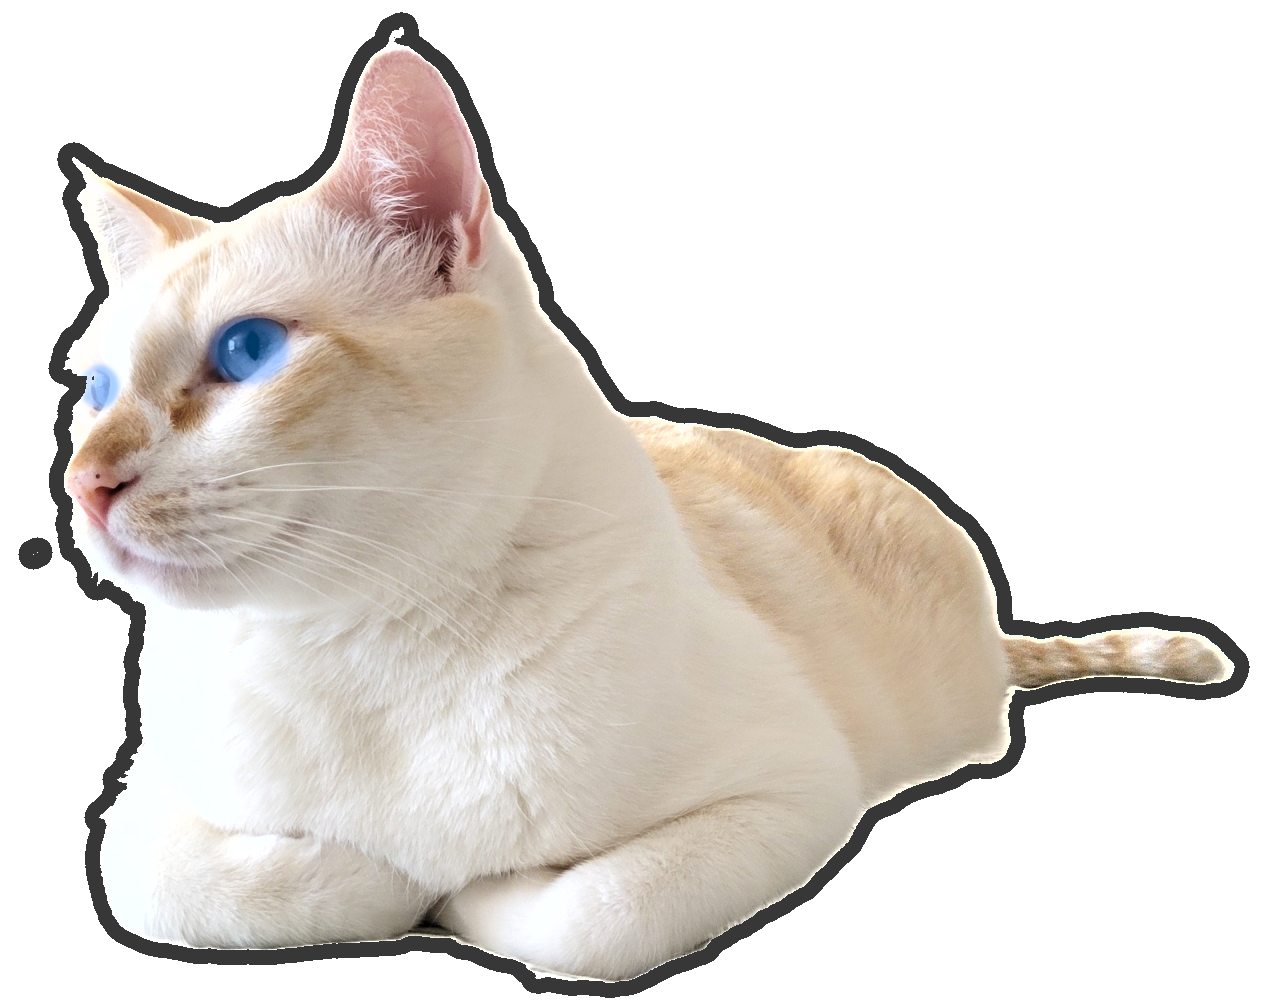
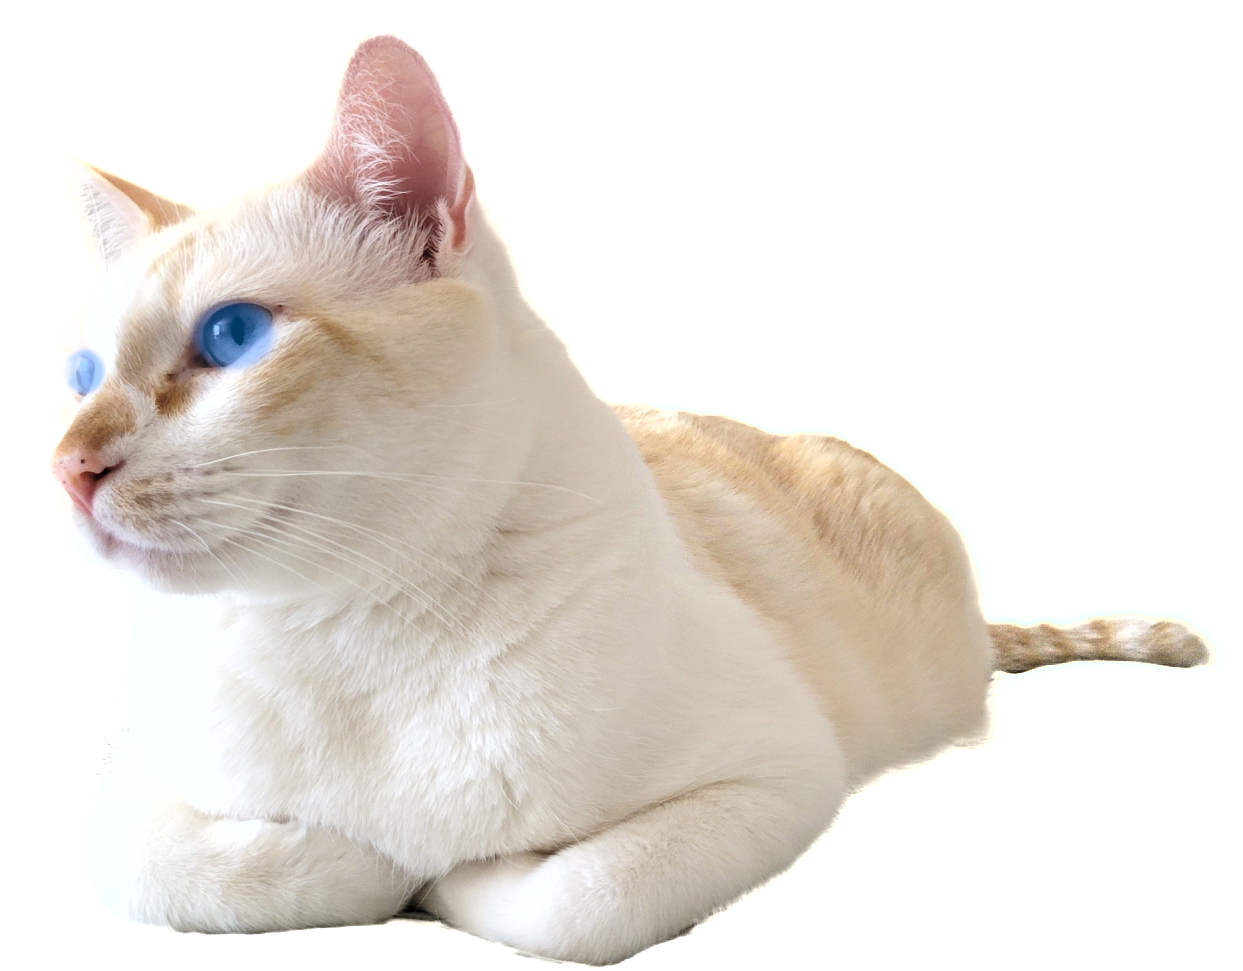
examples: drop the AI outline edit, add a no-AI baseline for comparison
blue_eyes_cat: remove the outline op from plan.json (visually noisy), regenerate the
enhanced photo and both AI chart variants, and add baseline_pattern_{unlimited,20}colors.png
generated straight from the original photo with no AI step, to demonstrate what the AI
step actually buys: at every color budget the un-enhanced photo puts 0 blue beads in the
eyes (their real pixel color is a low-saturation gray-blue), while the AI-enhanced version
gets 25 (20-color) to 31 (unlimited) blue beads. Face crops aligned via the chart's own
purple grid border rather than fixed pixel coordinates, since the two charts have
different row counts. Adds examples/blue_eyes_cat/README.md documenting the comparison.

diff --git a/examples/blue_eyes_cat/README.md b/examples/blue_eyes_cat/README.md
@@ -1,0 +1,30 @@
+# blue_eyes_cat
+
+Demonstrates what the AI-assisted step is actually for: this cat's blue eyes are only a few beads wide,
+and their real pixel color is a pale, low-saturation gray-blue — not vivid enough to win against the
+surrounding cream fur when matched to the nearest bead color.
+
+| File | AI-enhanced? | Colors | Blue-eye beads |
+|---|---|---|---|
+| `baseline_pattern_unlimited_colors.png` | no | 56 | 0 |
+| `baseline_pattern_20colors.png` | no | 20 | 0 |
+| `ai_pattern_unlimited_colors.png` | yes | 86 | 31, across 12 different blues (`C16`, `C29`, `P14`, ...) |
+| `ai_pattern_20colors.png` | yes | 20 | 25 (`C16`, a deep blue) |
+
+`baseline_*` is the photo run straight through `beadify` with no AI step. At **every** color budget, from
+20 colors up to unlimited, zero beads come out blue - the eyes disappear into the surrounding gray/beige
+fur codes (`H3`, `M7`, `M9`, ...). This isn't a color-count problem; the AI step's `colorize` edit is what
+lets the eyes survive at all.
+
+`eye_comparison.jpg` is a face crop of the two 20-color charts side by side (baseline left, AI-enhanced
+right) - see the top-level README for the full picture.
+
+Regenerate this example:
+
+```bash
+beadify-ai enhance ../../tests/fixtures/cat_flame_point.png --plan plan.json -w .
+beadify tests/fixtures/cat_flame_point.png -o baseline_pattern_unlimited_colors.png
+beadify tests/fixtures/cat_flame_point.png -o baseline_pattern_20colors.png --max-colors 20 --denoise
+beadify-ai chart -w . --yes -o ai_pattern_unlimited_colors.png
+beadify-ai chart -w . --yes -o ai_pattern_20colors.png --max-colors 20 --denoise
+```

diff --git a/examples/blue_eyes_cat/changes.md b/examples/blue_eyes_cat/changes.md
@@ -2,7 +2,7 @@
 
 **Subject:** A cream / white 'flame point' cat lying down and looking left, with blue eyes, pink ear and nose, tan markings on the back and a banded tail.
 
-**Summary:** Brightened the photo slightly, made both blue eyes clearly blue, strengthened the tail bands and the tan back patches, and added a dark outline. The cat's shape, pose and overall coloring are unchanged.
+**Summary:** Brightened the photo slightly, made both blue eyes clearly blue, and strengthened the tail bands and the tan back patches. No outline is added. The cat's shape, pose and overall coloring are unchanged.
 
 ## Features to keep
 
@@ -42,11 +42,6 @@
    - Serves: Tan back markings
    - Settings: amount=0.7, radius_frac=0.02
    - Where: box (0.50, 0.40) to (0.82, 0.62)
-7. **E7 outline** (applied)
-   - Why: A thin dark outline around the silhouette, as in traditional bead patterns. It is added outside the cat so thin parts such as the tail keep all their own beads.
-   - Settings: width_frac=0.012, color_rgb=[55, 55, 55]
-   - Where: whole image
-   - Note: 15 px outline
 
 ## What stays the same
 

diff --git a/README.md b/README.md
@@ -12,7 +12,10 @@ color reduction, instead of quietly averaging them away.
   <img src="examples/blue_eyes_cat/comparison.png" width="720" alt="Before/after: a cat's photo with the features Claude flagged marked, next to the enhanced version">
 </p>
 <p align="center">
-  <img src="examples/blue_eyes_cat/pattern_preview.jpg" width="420" alt="The resulting bead chart">
+  <img src="examples/blue_eyes_cat/eye_comparison.jpg" width="640" alt="Same 20-color budget, face crop: without the AI step (left) the eyes vanish into gray fur beads; with it (right) they come out clearly blue">
+  <br><sub>Same photo, same 20-color budget. Left: <code>beadify</code> alone. Right: after <code>beadify-ai</code>.
+  Without the AI step the eyes never get a blue bead at <em>any</em> color count - see
+  <a href="examples/blue_eyes_cat/">examples/blue_eyes_cat/</a> for the full breakdown.</sub>
 </p>
 
 More examples in [`examples/`](examples/).
